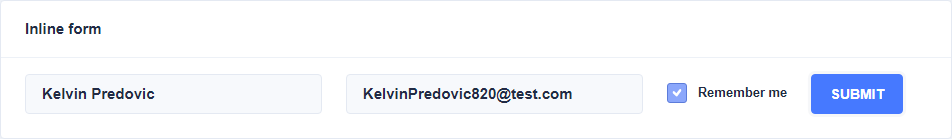
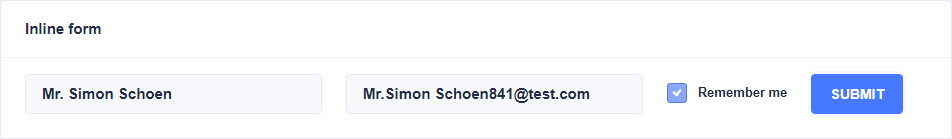
Advanced: Lesson 69. Project Setup and Teardown

Changed region(s): [[0.3655, 0.6331, 0.6397, 0.7482], [0.0305, 0.6331, 0.1828, 0.7194]]

diff --git a/playwright.config.ts b/playwright.config.ts
@@ -6,6 +6,7 @@ require("dotenv").config();
 export default defineConfig<TestOptions>({
     timeout: 40000,
     globalTimeout: undefined,
+    workers: 10,
 
     testDir: "tests",
     retries: 1,
@@ -39,8 +40,8 @@ export default defineConfig<TestOptions>({
             testMatch: "tests/.authSetup/authSetup.ts",
         },
         {
-            name: "chromium-main",
-            testIgnore: "tests/web/autoWaiting.spec.ts",
+            name: "regression",
+            testIgnore: ["autoWaiting.spec.ts", "likesCounter.spec.ts"],
             testMatch: "**/*.spec.ts",
             use: {
                 ...devices["Desktop Chrome"],
@@ -54,6 +55,25 @@ export default defineConfig<TestOptions>({
             use: {
                 ...devices["Desktop Firefox"],
             },
+        },
+        {
+            name: "articleSetup",
+            testMatch: "newArticle.setup.ts",
+            dependencies: ["setup"],
+            teardown: "articleCleanUp",
+        },
+        {
+            name: "articleCleanUp",
+            testMatch: "articleCleanUp.setup.ts",
+        },
+        {
+            name: "likeCounter",
+            testMatch: "likesCounter.spec.ts",
+            use: {
+                ...devices["Desktop Chrome"],
+                storageState: "tests/.authSetup/authFiles/user.json",
+            },
+            dependencies: ["articleSetup"],
         },
 
         // {

diff --git a/tests/web/newArticle.setup.ts b/tests/web/newArticle.setup.ts
@@ -1,0 +1,19 @@
+import { expect, test as setup } from "@playwright/test";
+
+setup("create new article", async ({ request }) => {
+    const articleResponse = await request.post("https://conduit-api.bondaracademy.com/api/articles/", {
+        data: {
+            article: {
+                title: "PW - Likes test article",
+                description: "PW - Description",
+                body: "PW - Body",
+                tagList: [],
+            },
+        },
+    });
+    expect(articleResponse.status()).toEqual(201);
+
+    const articleData = await articleResponse.json();
+    const articleSlug = articleData.article.slug;
+    process.env["SLUGID"] = articleSlug;
+});

diff --git a/tests/web/likesCounter.spec.ts b/tests/web/likesCounter.spec.ts
@@ -1,0 +1,10 @@
+import test, { expect } from "@playwright/test";
+
+test("Like counter increase", async ({ page }) => {
+    await page.goto("https://conduit.bondaracademy.com/");
+    await page.getByText("Global Feed").click();
+    const firstLikeButton = page.locator("app-article-preview").first().locator("button");
+    await expect(firstLikeButton).toContainText("0");
+    await firstLikeButton.click();
+    await expect(firstLikeButton).toContainText("1");
+});

diff --git a/tests/web/articleCleanUp.setup.ts b/tests/web/articleCleanUp.setup.ts
@@ -1,0 +1,8 @@
+import { expect, test as setup } from "@playwright/test";
+
+setup("Delete the article", async ({ request }) => {
+    const deleteArticleResponse = await request.delete(
+        `https://conduit-api.bondaracademy.com/api/articles/${process.env.SLUGID}`,
+    );
+    expect(deleteArticleResponse.status()).toEqual(204);
+});
